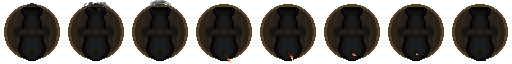
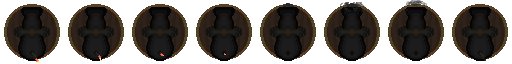
Fixed all turret's sprites.

diff --git a/core/src/com/game/Entity/Tower/Tower.java b/core/src/com/game/Entity/Tower/Tower.java
@@ -64,14 +64,15 @@ public class Tower extends Actor {
 
     private float shootDelayLeft, shootDelay;
     private Bullet delayBullet;
+    private boolean looping;
 
-    public Tower(JSONObject towerLevelsAll, Base base, boolean canAttackFlying, String name, String path, @Null String path2, int towerTextureSize, TextureRegion bulletTexture, int bulletTextureSize, int framesDelay, int tileX, int tileY, float scale, GameScreen gameScreen){
+    public Tower(JSONObject towerLevelsAll, Base base, boolean canAttackFlying, String name, String path, @Null String path2, int towerTextureSize, TextureRegion bulletTexture, int bulletTextureSize, int framesDelay, boolean looping, int tileX, int tileY, float scale, GameScreen gameScreen){
         this.name = name;
         this.canAttackFlying = canAttackFlying;
         this.towerLevels = towerLevelsAll.getJSONArray(name);
         this.gameScreen = gameScreen;
         JSONObject turretFirstLevel = this.towerLevels.getJSONObject(0);
-
+        this.looping = looping;
         this.base = base;
         this.isMouseEntered = false;
         this.timeToShoot = 0;
@@ -391,7 +392,7 @@ public class Tower extends Actor {
         }
 
         if (towerAnimation2 != null)
-            batch.draw(towerAnimation2.getKeyFrame(stateTime, true), position.x+32*(scale-1), position.y+32*(scale-1),towerTextureSize/2, towerTextureSize/2,towerTextureSize, towerTextureSize,scale,scale,0);
+            batch.draw(towerAnimation2.getKeyFrame(stateTime, looping), position.x+32*(scale-1), position.y+32*(scale-1),towerTextureSize/2, towerTextureSize/2,towerTextureSize, towerTextureSize,scale,scale,0);
 
 
         batch.draw(towerAnimation.getKeyFrame(stateTime, false),position.x+32*(scale-1), position.y+32*(scale-1), towerTextureSize/2, towerTextureSize/2,towerTextureSize,towerTextureSize,scale,scale,rotation);

diff --git a/core/src/com/game/Entity/Tower/MeleeTower.java b/core/src/com/game/Entity/Tower/MeleeTower.java
@@ -12,7 +12,7 @@ public class MeleeTower extends Tower{
 
     public MeleeTower(JSONObject turretLevels, Base base, int tileX, int tileY, float scale, GameScreen gameScreen)
     {
-        super(turretLevels, base, false, "meleeTower", "assets/game/towers/meleeTower.png", "assets/game/towers/meleeTowerBase.png",  64, new TextureRegion(new Texture(Gdx.files.internal("assets/game/bullets/meleeAttack64.png"))), 64, 0, tileX, tileY, scale, gameScreen);
+        super(turretLevels, base, false, "meleeTower", "assets/game/towers/meleeTower.png", "assets/game/towers/meleeTowerBase.png",  64, new TextureRegion(new Texture(Gdx.files.internal("assets/game/bullets/meleeAttack64.png"))), 64, 0, false, tileX, tileY, scale, gameScreen);
 
     }
 

diff --git a/core/src/com/game/Entity/Tower/MageTower.java b/core/src/com/game/Entity/Tower/MageTower.java
@@ -11,7 +11,7 @@ public class MageTower extends Tower{
 
     public MageTower(JSONObject turretLevels, Base base, int tileX, int tileY, float scale, GameScreen gameScreen)
     {
-        super(turretLevels, base, true, "mageTower", "assets/game/towers/mageTower.png", "assets/game/towers/mageTowerBase.png", 64, new TextureRegion(new Texture(Gdx.files.internal("assets/game/bullets/mageBullet64.png"))), 64, 0, tileX, tileY, scale, gameScreen);
+        super(turretLevels, base, true, "mageTower", "assets/game/towers/mageTower.png", "assets/game/towers/mageTowerBase.png", 64, new TextureRegion(new Texture(Gdx.files.internal("assets/game/bullets/mageBullet64.png"))), 64, 0, true, tileX, tileY, scale, gameScreen);
 
     }
 

diff --git a/core/src/com/game/Entity/Tower/BowTower.java b/core/src/com/game/Entity/Tower/BowTower.java
@@ -11,7 +11,7 @@ public class BowTower extends Tower{
 
     public BowTower(JSONObject turretLevels, Base base, int tileX, int tileY, float scale, GameScreen gameScreen)
     {
-        super(turretLevels, base, true, "crossbowTower", "assets/game/towers/crossbowTower.png", null, 64, new TextureRegion(new Texture(Gdx.files.internal("assets/game/bullets/crossbowArrow64.png"))), 64, 0, tileX, tileY, scale, gameScreen);
+        super(turretLevels, base, true, "crossbowTower", "assets/game/towers/crossbowTower.png", null, 64, new TextureRegion(new Texture(Gdx.files.internal("assets/game/bullets/crossbowArrow64.png"))), 64, 0, false, tileX, tileY, scale, gameScreen);
 
     }
 

diff --git a/core/src/com/game/Entity/Tower/CannonTower.java b/core/src/com/game/Entity/Tower/CannonTower.java
@@ -11,7 +11,7 @@ public class CannonTower extends Tower{
 
     public CannonTower(JSONObject turretLevels, Base base, int tileX, int tileY, float scale, GameScreen gameScreen)
     {
-        super(turretLevels, base, false, "cannonTower", "assets/game/towers/cannonTower.png", null, 64, new TextureRegion(new Texture(Gdx.files.internal("assets/game/bullets/cannonBall64.png"))), 64, 3, tileX, tileY, scale, gameScreen);
+        super(turretLevels, base, false, "cannonTower", "assets/game/towers/cannonTower.png", null, 64, new TextureRegion(new Texture(Gdx.files.internal("assets/game/bullets/cannonBall64.png"))), 64, 4,false,  tileX, tileY, scale, gameScreen);
 
     }
 
